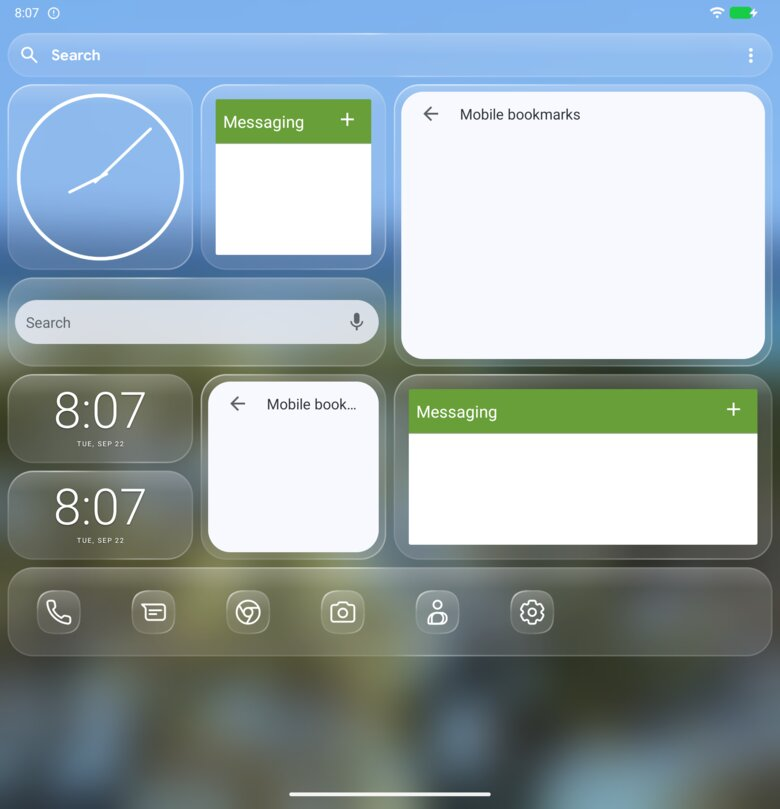
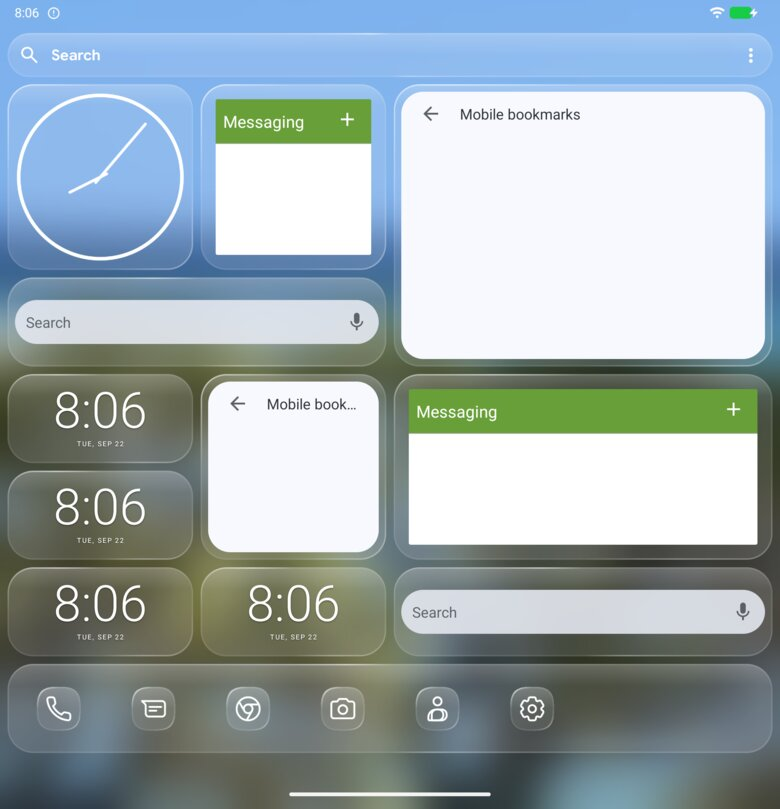
fix: the Fold docs layouts use all seven rows
The Fold derives seven rows on both displays, one more than the phone
instance. Its layouts reused the phone's dock row (y 5), so every Fold
screenshot left an empty row under the dock. The fold layouts now put the
dock in row 6 and fill the extra row, the grid docs say that rows differ per
device and y is absolute, and all 22 Fold images are retaken.

diff --git a/docs/configuration/home-grid.md b/docs/configuration/home-grid.md
@@ -25,8 +25,10 @@ away in search. Design background:
 | `home.grid.labels` | A label under every widget, never under the dock. It shows the app's name | boolean | `true` |
 | `home.grid.layouts` | The layouts, one per form factor (below) | `phone`, `fold` | — |
 
-Rows are not configured. The launcher derives them from the screen height, so
-a cell stays square.
+Rows are not configured. The launcher derives them from the screen, so a cell
+stays square: the phone instance these screenshots come from has 6 rows, the
+Pixel Fold has 7 on both displays. `y` is absolute, so each layout puts its
+bottom row (a bottom dock, say) at its own device's last row.
 
 | Labels on (default) | `labels: false` |
 |---|---|
@@ -82,8 +84,8 @@ never has a label. Its shape is your choice:
 
 | Where | Item |
 |---|---|
-| At the bottom, the traditional dock | `{ "id": "dock", "widget": "favorites", "x": 0, "y": 5, "w": 4, "h": 1 }` |
-| A column on the side | `{ "id": "dock", "widget": "favorites", "x": 3, "y": 0, "w": 1, "h": 6 }` |
+| At the bottom, the traditional dock | `{ "id": "dock", "widget": "favorites", "x": 0, "y": 5, "w": 4, "h": 1 }` (a 6-row phone; `"y": 6, "w": 8` on the Fold) |
+| A column on the side | `{ "id": "dock", "widget": "favorites", "x": 3, "y": 0, "w": 1, "h": 6 }` (`"h": 7` on the Fold) |
 | Two rows | `{ "id": "dock", "widget": "favorites", "x": 0, "y": 4, "w": 4, "h": 2 }` |
 | None | leave the item out |
 
@@ -122,9 +124,12 @@ through search, and edit mode shows how many do not fit.
           { "id": "clock", "widget": "com.android.deskclock/com.android.alarmclock.DigitalAppWidgetProvider", "x": 0, "y": 3, "w": 2, "h": 1 },
           { "id": "bookmarks", "widget": "app.vanadium.browser/com.google.android.apps.chrome.appwidget.bookmarks.BookmarkThumbnailWidgetProvider", "x": 2, "y": 3, "w": 2, "h": 2 },
           { "id": "clock-2", "widget": "com.android.deskclock/com.android.alarmclock.DigitalAppWidgetProvider", "x": 0, "y": 4, "w": 2, "h": 1 },
+          { "id": "clock-3", "widget": "com.android.deskclock/com.android.alarmclock.DigitalAppWidgetProvider", "x": 0, "y": 5, "w": 2, "h": 1 },
+          { "id": "clock-4", "widget": "com.android.deskclock/com.android.alarmclock.DigitalAppWidgetProvider", "x": 2, "y": 5, "w": 2, "h": 1 },
           { "id": "bookmarks-2", "widget": "app.vanadium.browser/com.google.android.apps.chrome.appwidget.bookmarks.BookmarkThumbnailWidgetProvider", "x": 4, "y": 0, "w": 4, "h": 3 },
           { "id": "messages-2", "widget": "com.android.messaging/com.android.messaging.widget.BugleWidgetProvider", "x": 4, "y": 3, "w": 4, "h": 2 },
-          { "id": "dock", "widget": "favorites", "x": 0, "y": 5, "w": 8, "h": 1 }
+          { "id": "search-2", "widget": "app.vanadium.browser/org.chromium.chrome.browser.searchwidget.SearchWidgetProvider", "x": 4, "y": 5, "w": 4, "h": 1 },
+          { "id": "dock", "widget": "favorites", "x": 0, "y": 6, "w": 8, "h": 1 }
         ] }
       }
     }
@@ -163,9 +168,11 @@ so the cover's dock shows the first four favorites.
           { "id": "search", "widget": "app.vanadium.browser/org.chromium.chrome.browser.searchwidget.SearchWidgetProvider", "x": 0, "y": 2, "w": 3, "h": 1 },
           { "id": "messages", "widget": "com.android.messaging/com.android.messaging.widget.BugleWidgetProvider", "x": 0, "y": 3, "w": 3, "h": 2 },
           { "id": "clock", "widget": "com.android.deskclock/com.android.alarmclock.DigitalAppWidgetProvider", "x": 0, "y": 5, "w": 3, "h": 1 },
-          { "id": "dock", "widget": "favorites", "x": 3, "y": 0, "w": 1, "h": 6 },
+          { "id": "clock-2", "widget": "com.android.deskclock/com.android.alarmclock.DigitalAppWidgetProvider", "x": 0, "y": 6, "w": 3, "h": 1 },
+          { "id": "dock", "widget": "favorites", "x": 3, "y": 0, "w": 1, "h": 7 },
           { "id": "bookmarks", "widget": "app.vanadium.browser/com.google.android.apps.chrome.appwidget.bookmarks.BookmarkThumbnailWidgetProvider", "x": 4, "y": 0, "w": 4, "h": 3 },
-          { "id": "messages-2", "widget": "com.android.messaging/com.android.messaging.widget.BugleWidgetProvider", "x": 4, "y": 3, "w": 4, "h": 3 }
+          { "id": "messages-2", "widget": "com.android.messaging/com.android.messaging.widget.BugleWidgetProvider", "x": 4, "y": 3, "w": 4, "h": 3 },
+          { "id": "search-2", "widget": "app.vanadium.browser/org.chromium.chrome.browser.searchwidget.SearchWidgetProvider", "x": 4, "y": 6, "w": 4, "h": 1 }
         ] }
       }
     }
